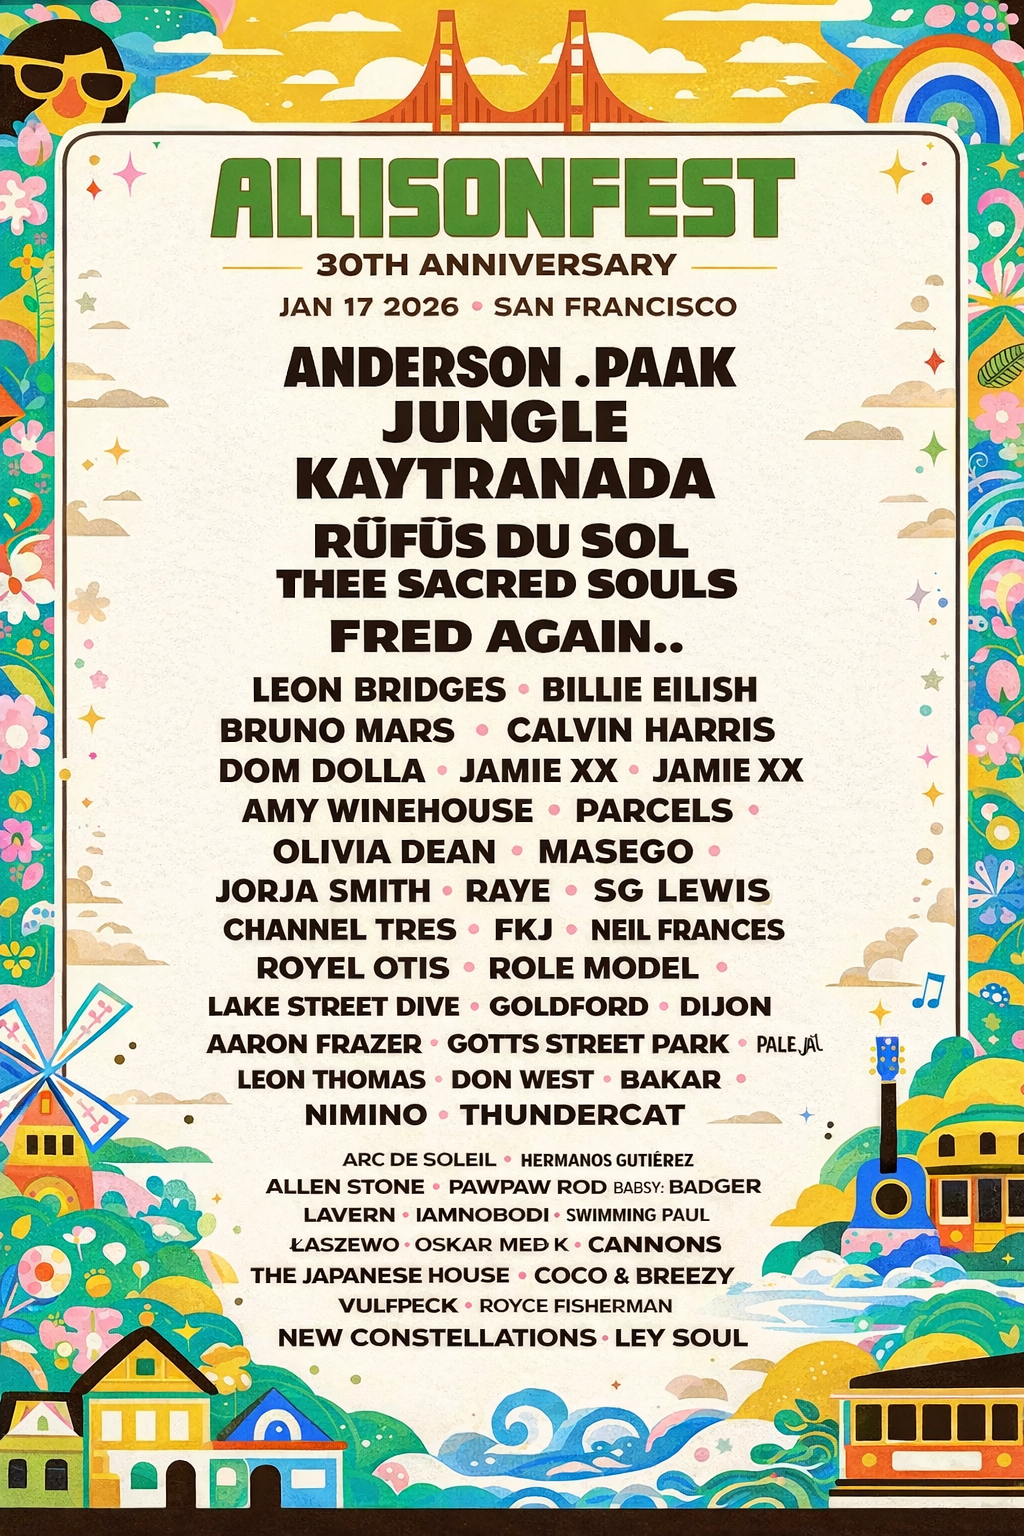
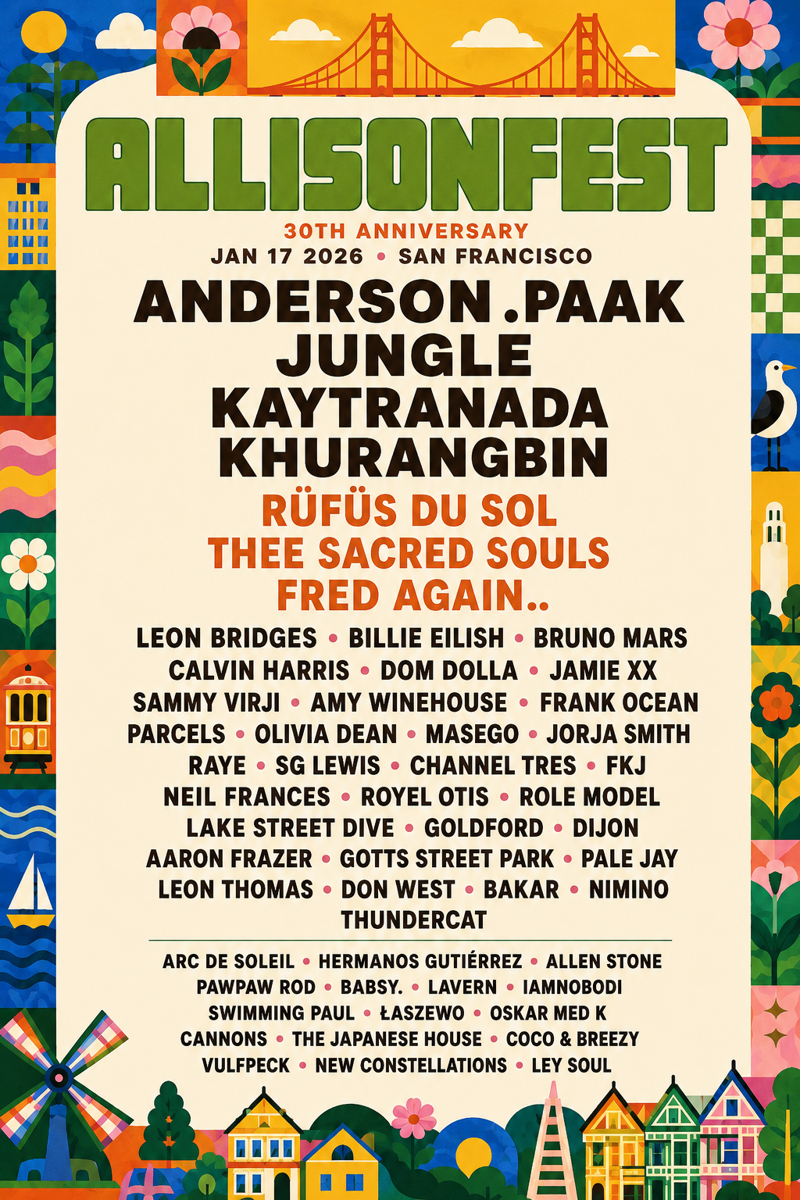
Swap in more real-photo stickers; update AllisonFest lineup poster
- projects.html: mirror and tretinoin tracker icons now use real photo cutouts (antique gold mirror, Obagi tretinoin tube with cap on)
- hobbies.html: dogs icon now uses a cutout of Archie
- allisonfest.html: replaced the lineup poster with the new colorful SF-themed poster
- fixed a CSS specificity bug where the mobile .thumb rule was overriding .thumb-sticker sizing, causing oversized icons on narrow screens
- also extracted the three-torches/ribbon graphic from an FSU jacket patch (fsu-torches.png), not yet placed anywhere

diff --git a/projects.html b/projects.html
@@ -20,38 +20,16 @@
     <div class="grid">
 
       <a class="entry" href="https://mirrorfeedback.com/" target="_blank" rel="noopener">
-        <div class="thumb">
-          <svg viewBox="0 0 120 120" xmlns="http://www.w3.org/2000/svg">
-            <!-- hand mirror: wobbly oval frame, sheen, handle -->
-            <path d="M60 18 C44 18 33 31 33 47 C33 63 44 76 60 76 C76 76 87 63 87 47 C87 31 76 18 60 18 Z"
-                  fill="none" stroke="#2e1308" stroke-width="2.4" stroke-linecap="round" stroke-linejoin="round"/>
-            <path d="M60 23 C48 23 39 34 39 47 C39 60 48 71 60 71 C72 71 81 60 81 47 C81 34 72 23 60 23"
-                  fill="none" stroke="#2e1308" stroke-width="1" opacity="0.4" stroke-linecap="round"/>
-            <path d="M46 56 C51 47 59 39 69 33 M43 49 C48 43 54 38 60 34"
-                  fill="none" stroke="#c9a35a" stroke-width="2.6" opacity="0.75" stroke-linecap="round"/>
-            <path d="M54 76 C54 84 54 91 55 98 C55.5 101 58 102.5 60 102.5 C62 102.5 64.5 101 65 98 C66 91 66 84 66 76"
-                  fill="none" stroke="#2e1308" stroke-width="2.4" stroke-linecap="round" stroke-linejoin="round"/>
-            <path d="M56 84 C56 90 56 95 57 99"
-                  fill="none" stroke="#2e1308" stroke-width="1" opacity="0.4" stroke-linecap="round"/>
-          </svg>
+        <div class="thumb thumb-sticker">
+          <img src="images/mirror-sticker.png" alt="Antique gold mirror, cutout sticker">
         </div>
         <span class="title">mirror</span>
         <span class="blurb">how do you get feedback outside of work? exploring the difference between internal and external self-awareness.</span>
       </a>
 
       <a class="entry" href="tretinointracker.html">
-        <div class="thumb">
-          <svg viewBox="0 0 120 120" xmlns="http://www.w3.org/2000/svg">
-            <!-- simple medicine tube: cap, shoulder, straight body, crimped end -->
-            <path d="M50 20 L70 20 L70 30 L50 30 Z"
-                  fill="none" stroke="#2e1308" stroke-width="2.2" stroke-linejoin="round"/>
-            <path d="M50 30 L44 40 L44 42 L76 42 L76 40 L70 30 Z"
-                  fill="none" stroke="#2e1308" stroke-width="2.2" stroke-linejoin="round"/>
-            <path d="M44 42 L44 88 L76 88 L76 42"
-                  fill="none" stroke="#2e1308" stroke-width="2.4" stroke-linecap="round" stroke-linejoin="round"/>
-            <path d="M44 96 L44 88 L76 88 L76 96 L44 96 Z M50 90 L50 94 M56 90 L56 94 M64 90 L64 94 M70 90 L70 94"
-                  fill="none" stroke="#2e1308" stroke-width="2" stroke-linecap="round" stroke-linejoin="round"/>
-          </svg>
+        <div class="thumb thumb-sticker">
+          <img src="images/tretinoin-sticker.png" alt="Tretinoin cream tube, cutout sticker">
         </div>
         <span class="title">tretinoin tracker</span>
         <span class="blurb">consistency is everything</span>

diff --git a/hobbies.html b/hobbies.html
@@ -51,28 +51,8 @@
     </a>
 
     <a class="entry" href="dogs.html">
-      <div class="thumb">
-        <svg viewBox="0 0 120 120" xmlns="http://www.w3.org/2000/svg">
-          <!-- happy dog face: wobbly outline, floppy scribbled ears -->
-          <path d="M60 32 C44.5 32 34.5 44 34 58 C33.5 73.5 45 84 60 84 C75 84 86.5 73.5 86 58 C85.5 44 75.5 32 60.5 32"
-                fill="none" stroke="#2e1308" stroke-width="2.6" stroke-linecap="round"/>
-          <path d="M38 40 C30 34 23.5 40 25.5 50 C27 57.5 31.5 62.5 37 64.5"
-                fill="none" stroke="#2e1308" stroke-width="2.4" stroke-linecap="round"/>
-          <path d="M82 40 C90 34 96.5 40 94.5 50 C93 57.5 88.5 62.5 83 64.5"
-                fill="none" stroke="#2e1308" stroke-width="2.4" stroke-linecap="round"/>
-          <path d="M29 42.5 C31 45.5 32.5 49.5 33.5 53.5 M33 41 C35 44.5 36.5 48.5 37.5 52.5"
-                stroke="#c9a35a" stroke-width="2.4" opacity="0.8" fill="none" stroke-linecap="round"/>
-          <path d="M91 42.5 C89 45.5 87.5 49.5 86.5 53.5 M87 41 C85 44.5 83.5 48.5 82.5 52.5"
-                stroke="#c9a35a" stroke-width="2.4" opacity="0.8" fill="none" stroke-linecap="round"/>
-          <circle cx="51" cy="55" r="2.3" fill="#2e1308"/>
-          <circle cx="69" cy="55" r="2.3" fill="#2e1308"/>
-          <path d="M56.5 64 C58.5 62.5 61.5 62.5 63.5 64 C62.5 66.5 60.8 68 60 68 C59.2 68 57.5 66.5 56.5 64 Z"
-                fill="#2e1308"/>
-          <path d="M60 68 C60 71 60 73 60 74 M60 74 C57 76.5 53.5 76 52 74 M60 74 C63 76.5 66.5 76 68 74"
-                fill="none" stroke="#2e1308" stroke-width="1.8" stroke-linecap="round"/>
-          <path d="M58 77 C58.2 80.5 61.8 80.5 62 77"
-                fill="none" stroke="#c65a4f" stroke-width="3" stroke-linecap="round"/>
-        </svg>
+      <div class="thumb thumb-sticker">
+        <img src="images/hobby-dog-sticker.png" alt="Archie the dog, cutout sticker">
       </div>
       <span class="title">dogs</span>
       <span class="blurb">professional dog appreciator</span>

diff --git a/projects.css b/projects.css
@@ -76,6 +76,23 @@ header h1 {
   display: block;
 }
 
+.thumb.thumb-sticker {
+  height: 150px;
+  overflow: visible;
+  display: flex;
+  align-items: center;
+  justify-content: center;
+}
+
+.thumb-sticker img {
+  max-width: 100%;
+  max-height: 100%;
+  width: auto;
+  height: auto;
+  object-fit: contain;
+  filter: drop-shadow(2px 6px 8px rgba(0, 0, 0, 0.18));
+}
+
 /* varied organic silhouettes, echoing torn-paper / tape shapes */
 .shape-circle {
   clip-path: polygon(

diff --git a/hobbies.css b/hobbies.css
@@ -65,7 +65,7 @@ header h1 {
   display: block;
 }
 
-.thumb-sticker {
+.thumb.thumb-sticker {
   height: 210px;
   overflow: visible;
 }
